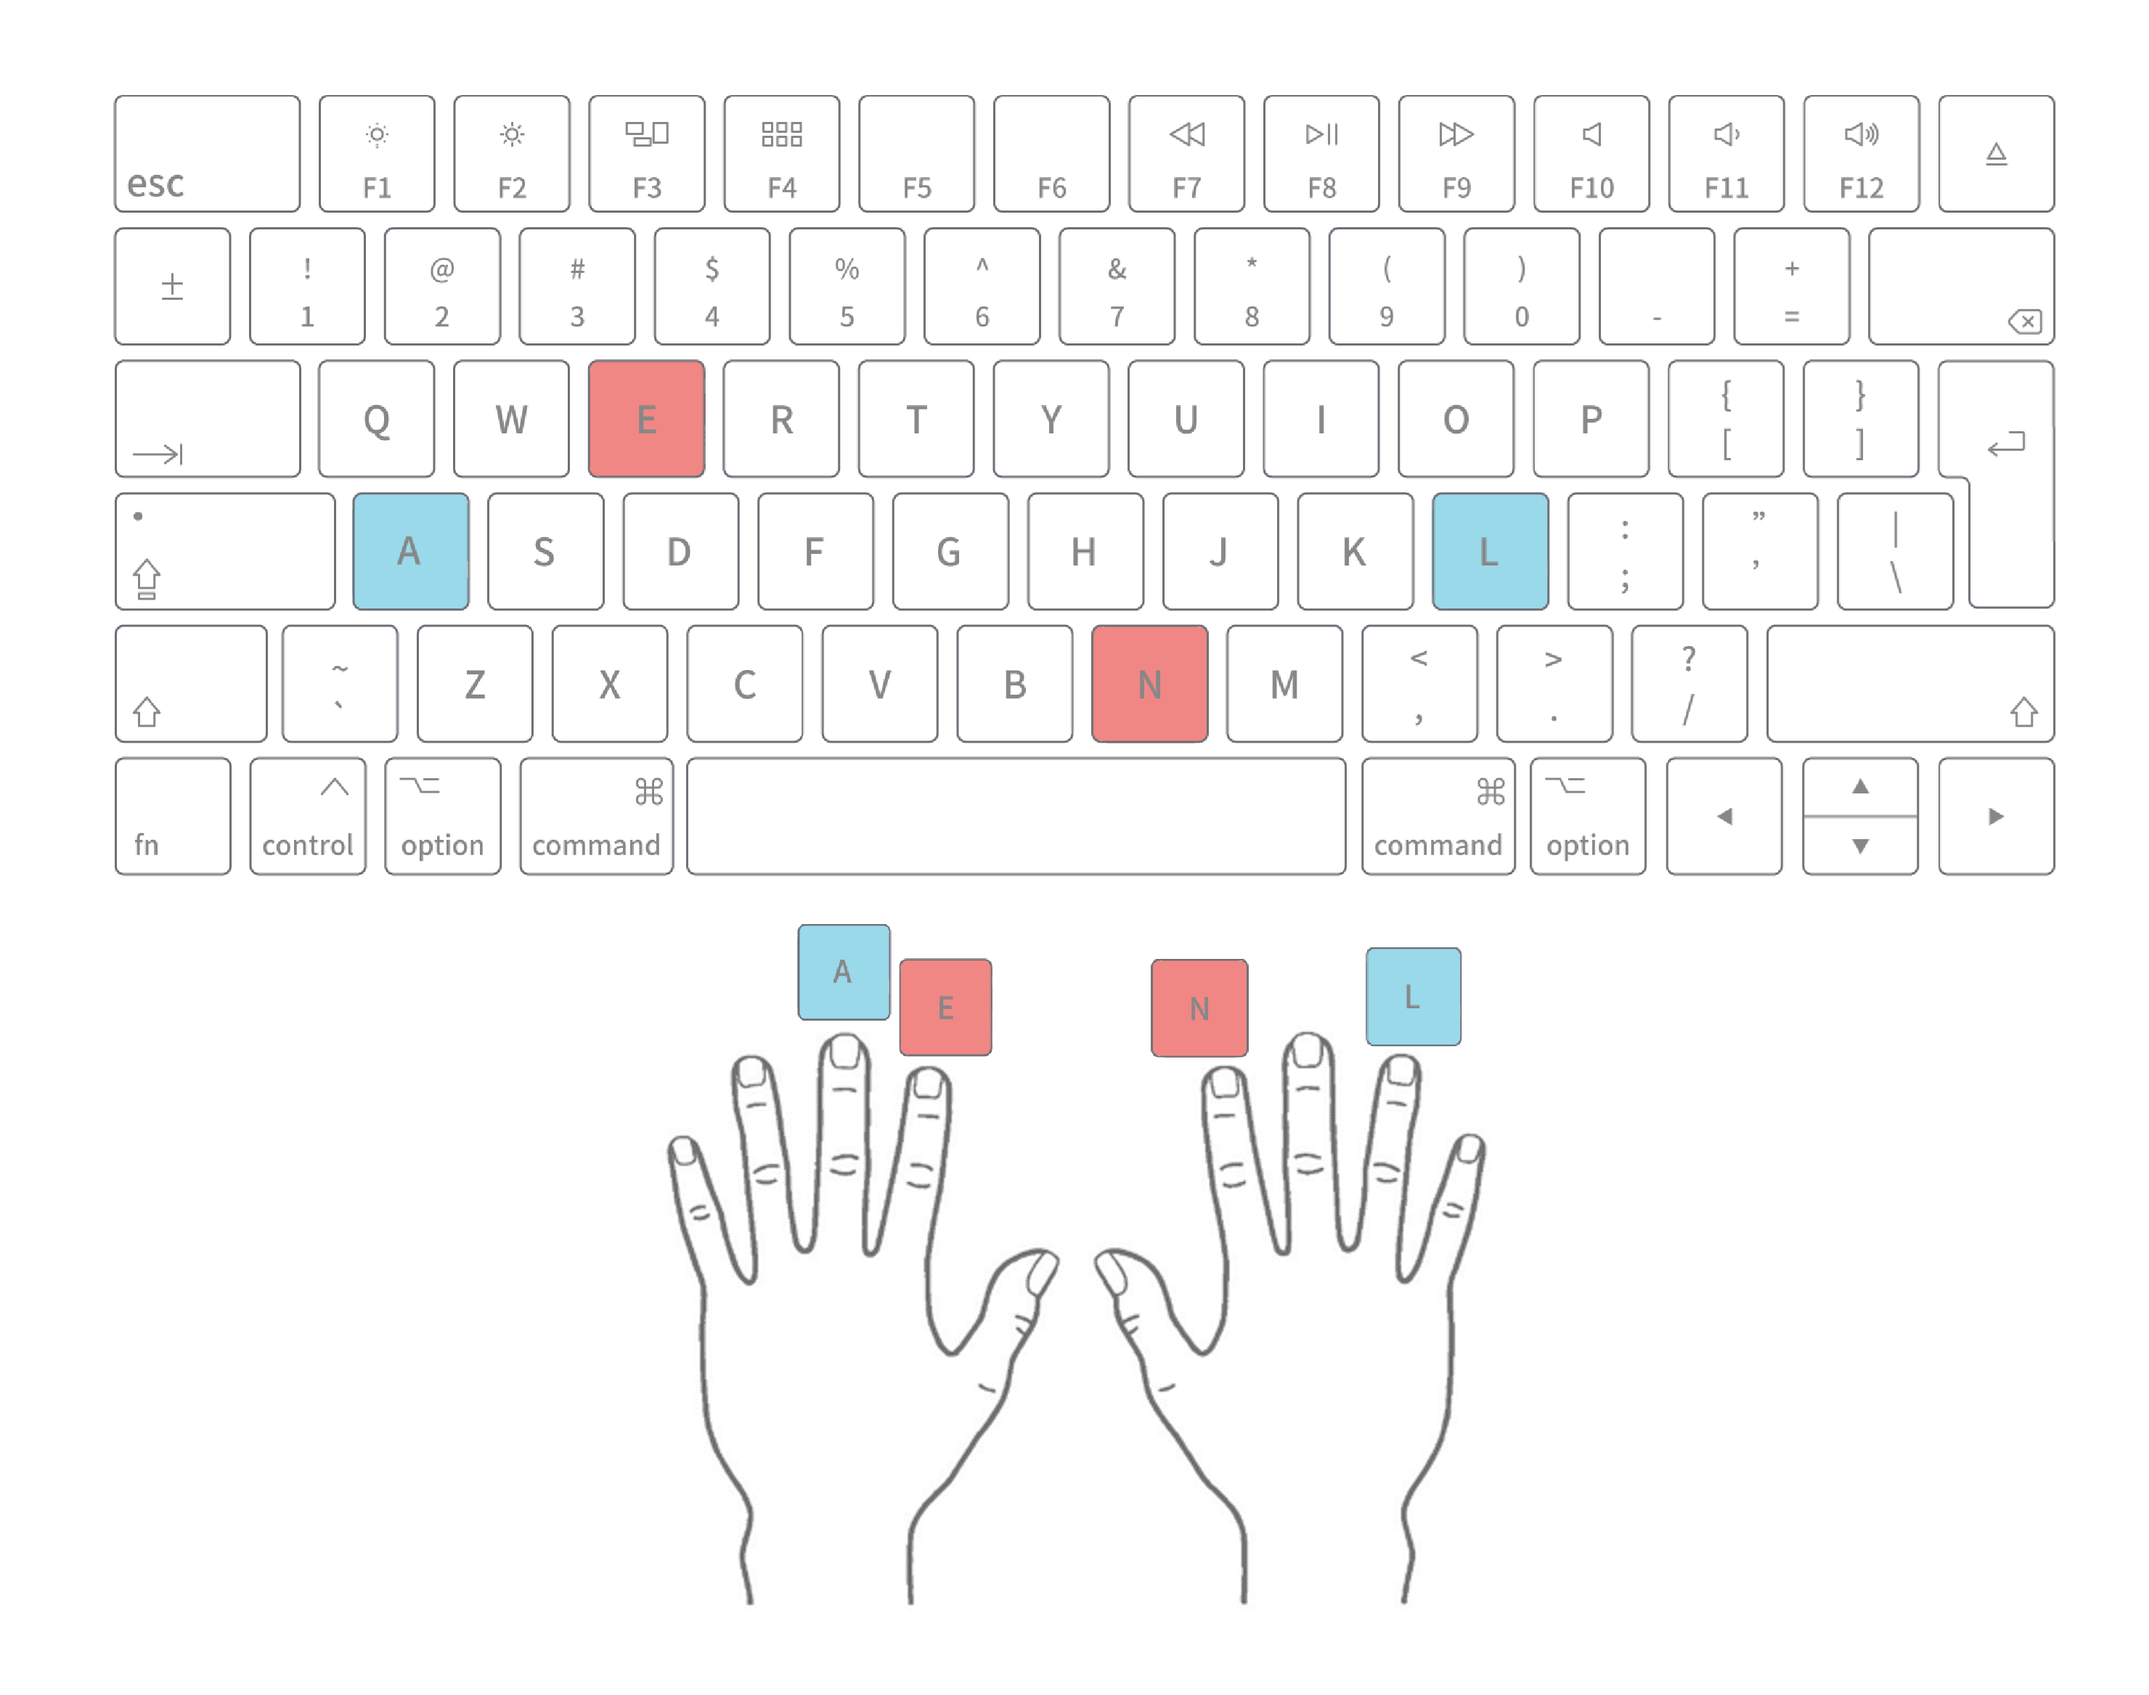
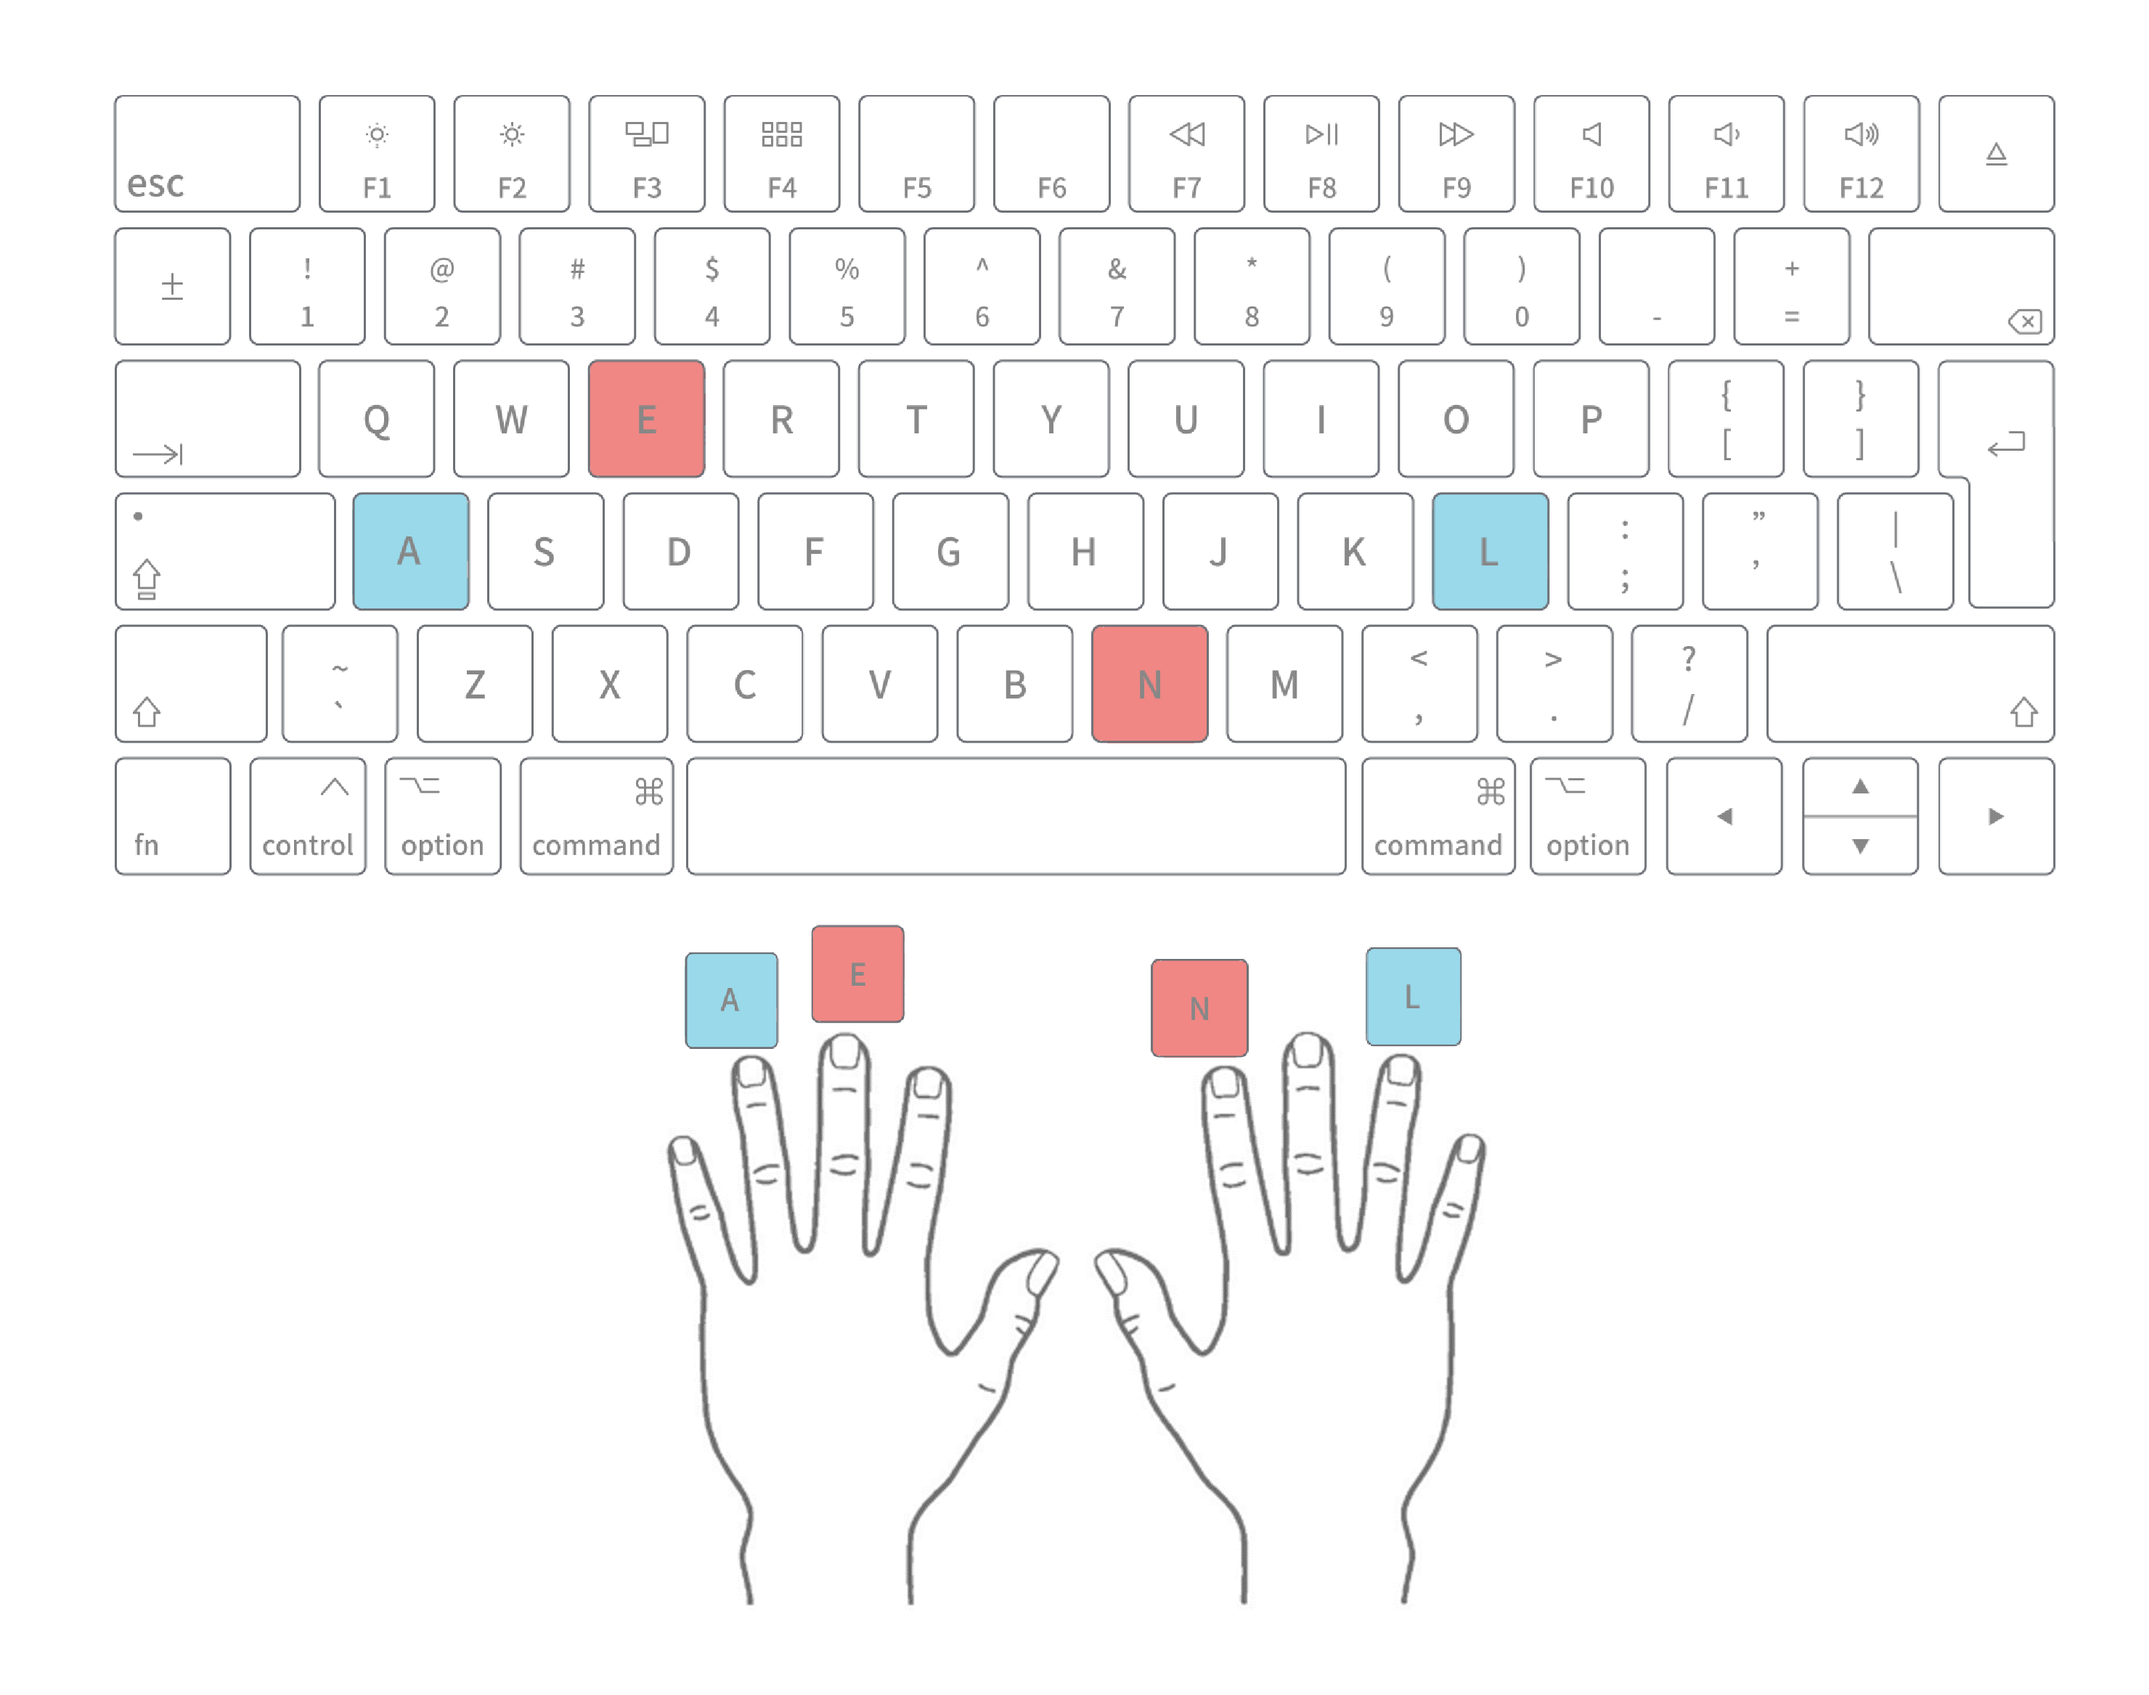
got rid of redundant trials, changed instructions

Changed region(s): [[0.3108, 0.5242, 0.4662, 0.6475]]

diff --git a/105_cse_experimental.html b/105_cse_experimental.html
@@ -198,8 +198,8 @@ const instructions = {
                 Ezt követően megjelenik a célinger, ami vagy azonos („FEL”) vagy ellentétes („LE”) lesz az előtte bemutatott iránnyal.
                 A feladatod az lesz, hogy minél gyorsabban és pontosabban eltaláld a célinger irányát a hozzárendelt billentyű megnyomásával.</p> 
                 <p>Kérlek helyezd a billentyűzetre a kezedet a képen látható módon:</p>
-                <p>A bal középső ujjadat tedd az „A”-ra, ez lesz  a "BAL" irány. A jobb gyűrűsujjadat a „L”-re, ez fogja jelölni a "JOBB" irányt. 
-                 A jobb mutató ujjadat helyezd az „N”-re, ez lesz a "LE" irány. Míg a bal mutató ujjadat pedig tedd az „E”-re, ami a "FEL" irányt fogja jelölni! </p>
+                <p>A bal gyűrűsujjadat tedd az „A”-ra, ez lesz  a "BAL" irány. A jobb gyűrűsujjadat a „L”-re, ez fogja jelölni a "JOBB" irányt. 
+                 A jobb mutató ujjadat helyezd az „N”-re, ez lesz a "LE" irány. Míg a bal középső ujjadat pedig tedd az „E”-re, ami a "FEL" irányt fogja jelölni! </p>
                 <img src="NEWinstruction_pic.png" alt="Hand placement instructions" style="width: 40%; height: 40%;">
                 <p style="text-align: center;"><em>Amennyiben készen állsz a kísérlet megkezdésére, nyomd meg a space billentyűt!</em></p>`,
             choices: [" "],
@@ -249,129 +249,7 @@ const probe_duration = 1000;
 const prime_duration = 133;
 const blank_duration = 33;
 const probe_stim_duration = 133;
- //defining the trials
-    const stimulus = [
-     {  
-        prime: '<span style="font-size: 40px;">le<br>le<br>le</span>',
-        probe: '<span style="font-size: 40px;">fel</span>',
-        congruency: 'incongruent',
-        correct_response: 'e',
-        name: 'black_stimulus'
-     },
-     {  
-        prime: '<span style="font-size: 40px;">fel<br>fel<br>fel</span>',
-        probe: '<span style="font-size: 40px;">le</span>',
-        congruency: 'incongruent',
-        correct_response: 'n',
-        name: 'black_stimulus'
 
-     },
-     {
-        prime: '<span style="font-size: 40px;">le<br>le<br>le</span>',
-        probe: '<span style="font-size: 40px;">le</span>',
-        congruency: 'congruent',
-        correct_response: 'n',
-        name: 'black_stimulus'
-     },
-     {
-        
-        prime: '<span style="font-size: 40px;">fel<br>fel<br>fel</span>',
-        probe: '<span style="font-size: 40px;">fel</span>',
-        congruency: 'congruent',
-        correct_response: 'e',
-        name: 'black_stimulus'
-     },
-     {
-         
-        prime: '<span style="font-size: 40px;">bal<br>bal<br>bal</span>',
-        probe: '<span style="font-size: 40px;">jobb</span>',
-        congruency: 'incongruent',
-        correct_response: 'l',
-        name: 'black_stimulus'
-     },
-     {
-        prime: '<span style="font-size: 40px;">jobb<br>jobb<br>jobb</span>',
-        probe: '<span style="font-size: 40px;">bal</span>',
-        congruency: 'incongruent',
-        correct_response: 'a',
-        name: 'black_stimulus'
-     },
-     {
-        prime: '<span style="font-size: 40px;">bal<br>bal<br>bal</span>',
-        probe: '<span style="font-size: 40px;">bal</span>',
-        congruency: 'congruent',
-        correct_response: 'a',
-        name: 'black_stimulus'
-     },
-     {
-        prime: '<span style="font-size: 40px;">jobb<br>jobb<br>jobb</span>',
-        probe: '<span style="font-size: 40px;">jobb</span>',
-        congruency: 'congruent',
-        correct_response: 'l',
-        name: 'black_stimulus'
-     }
-    ]
-    const red_stimulus = [
-     {
-        prime: '<span style="font-size: 40px;">le<br>le<br>le</span>',
-        probe: '<span style="font-size: 40px; color: #e60602;">fel</span>',
-        congruency: 'incongruent',
-        correct_response: 'e',
-        name: 'red_stimulus'
-     },
-     {  
-        prime: '<span style="font-size: 40px;">fel<br>fel<br>fel</span>',
-        probe: '<span style="font-size: 40px; color: #e60602;">le</span>',
-        congruency: 'incongruent',
-        correct_response: 'n',
-        name: 'red_stimulus'
-
-     },
-     {
-        prime: '<span style="font-size: 40px;">le<br>le<br>le</span>',
-        probe: '<span style="font-size: 40px; color: #e60602;">le</span>',
-        congruency: 'congruent',
-        correct_response: 'n',
-        name: 'red_stimulus'
-     },
-     {
-        
-        prime: '<span style="font-size: 40px;">fel<br>fel<br>fel</span>',
-        probe: '<span style="font-size: 40px; color: #e60602;">fel</span>',
-        congruency: 'congruent',
-        correct_response: 'e',
-        name: 'red_stimulus'
-     },
-     {
-         
-        prime: '<span style="font-size: 40px;">bal<br>bal<br>bal</span>',
-        probe: '<span style="font-size: 40px; color: #e60602;">jobb</span>',
-        congruency: 'incongruent',
-        correct_response: 'l',
-        name: 'red_stimulus'
-     },
-     {
-        prime: '<span style="font-size: 40px;">jobb<br>jobb<br>jobb</span>',
-        probe: '<span style="font-size: 40px; color: #e60602;">bal</span>',
-        congruency: 'incongruent',
-        correct_response: 'a',
-        name: 'red_stimulus'
-     },
-     {
-        prime: '<span style="font-size: 40px;">bal<br>bal<br>bal</span>',
-        probe: '<span style="font-size: 40px; color: #e60602;">bal</span>',
-        congruency: 'congruent',
-        correct_response: 'a',
-        name: 'red_stimulus'
-     },
-     {
-        prime: '<span style="font-size: 40px;">jobb<br>jobb<br>jobb</span>',
-        probe: '<span style="font-size: 40px; color: #e60602;">jobb</span>',
-        congruency: 'congruent',
-        correct_response: 'l',
-        name: 'red_stimulus'
-     }
-    ]
 //fixation//
   //fixation//
    const fixation = {
@@ -406,21 +284,21 @@ const probe_stim_duration = 133;
     }
 }
 //probe//
-    const probe_trial = {
-    type: jsPsychHtmlKeyboardResponse,
-    stimulus: jsPsych.timelineVariable('probe'),
-   choices: ["a", "e", "l", "n"],
-    stimulus_duration: function() {
-        console.log("stimdur:", durations.probe_stim_duration);
-        return durations.probe_stim_duration; 
-    },
-    trial_duration: durations.probe_duration, 
-    response_ends_trial: false,   
-    data: {
-        correct_response: jsPsych.timelineVariable('correct_response'),
-        task: "probe",
-        congruency: jsPsych.timelineVariable('congruency'),
-        name: jsPsych.timelineVariable('name')
+const probe_trial = {
+  type: jsPsychHtmlKeyboardResponse,
+  stimulus: jsPsych.timelineVariable('probe'),
+  choices: ["a", "e", "l", "n"],
+  stimulus_duration: function() {
+    console.log("stimdur:", durations.probe_stim_duration);
+      return durations.probe_stim_duration; 
+      },
+  trial_duration: durations.probe_duration, 
+  response_ends_trial: false,   
+  data: {
+    correct_response: jsPsych.timelineVariable('correct_response'),
+    task: "probe",
+    congruency: jsPsych.timelineVariable('congruency'),
+    name: jsPsych.timelineVariable('name')
     },
     on_finish: function(data) {
         console.log("Response data:", data);
@@ -433,7 +311,7 @@ const probe_stim_duration = 133;
 const practice_instructions = {
         type: jsPsychHtmlKeyboardResponse,
         stimulus: `<h2>Gyakorló blokk</h2>
-            <p>A kísérlet megkezdése előtt egy rövid gyakorló blokk következik. Ebben a blokkban nem vonunk le pénzt a hibás válaszokért, azonban törekedj a minél gyorsabb és pontosabb válaszadásra! <br>
+            <p>A kísérlet megkezdése előtt egy rövid gyakorló blokk következik. Törekedj a minél gyorsabb és pontosabb válaszadásra! <br>
             Ha készen állsz, nyomj meg egy tetszőleges billentyűt a kezdéshez.</p>`
 }
 
@@ -467,7 +345,7 @@ const practice_end = {
   type: jsPsychHtmlKeyboardResponse,
   stimulus: `
     <div style="
-      padding-bottom: 350px;   /* <-- increase this value to move text higher */
+      padding-bottom: 350px;ó
       max-width: 800px; 
       margin: 40px auto; 
       font-size: 24px;
@@ -477,7 +355,7 @@ const practice_end = {
         margin: 0;
       ">
         A gyakorló rész véget ért. A kísérleti blokkok következnek. 
-        Ha készen állsz, nyomj meg egy tetszőleges billentyűt a kezdéshez.
+        Ha készen állsz, nyomd meg a space billentyűt a kezdéshez.
         <span style="display:inline-block; width:100%;"></span>
       </p>
     </div>
@@ -495,7 +373,7 @@ const practice_end = {
       "
     >
   `,
-  choices: "ALL_KEYS"
+  choices:  [" "],
 };
 
 const randomized_prac_stimuli = prime_probe_trials_prac.trials.map((block, block_index) => {
@@ -643,30 +521,6 @@ const practice_blocks = randomized_prac_stimuli_per_participant.map((block_stimu
     }
   };
 });
-
-
-  /*loop_function: function(data) {
-	if(debug == 0){
-        console.log(data);
-        var correct_trials = data.filter({task: "probe",correct: true}).count();
-        console.log(correct_trials);
-        var total_trials = data.filter({task: "probe"}).count();
-        
-        if (total_trials > 0) {
-            var accuracy = (correct_trials / total_trials) * 100;
-            console.log("Accuracy:", accuracy + "%");
-            if (accuracy >= 80) {
-                return false;
-            } else {
-                return true;
-            }
-          
-        }
-    }else{
-	return false;
-    }
-    }
-}, */
 
 const all_practice = {
     timeline: [practice_instructions, practice_blocks, practice_intermission, practice_blocks, practice_end]
